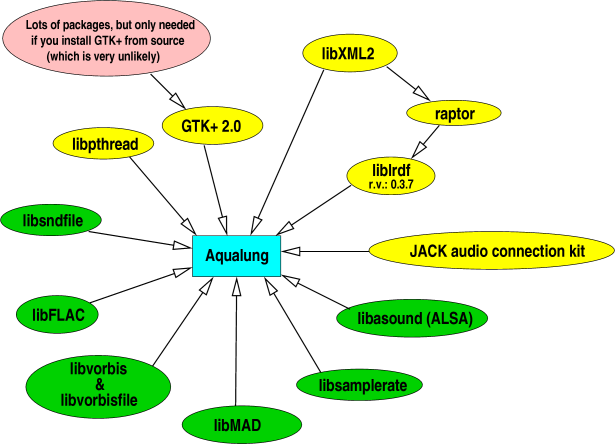
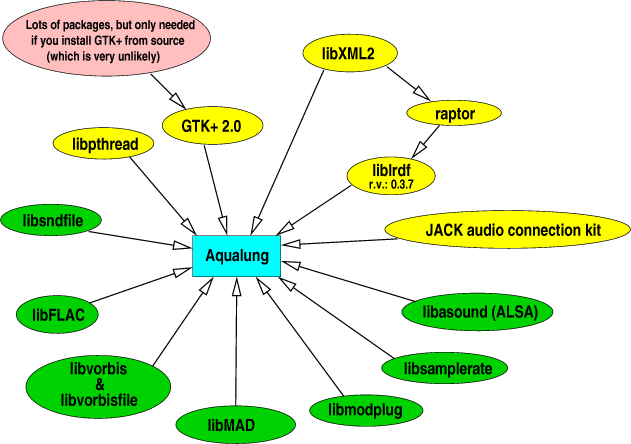
Aqualung 0.9beta2 released. See the ChangeLog.
git-svn-id: https://aqualung.svn.sourceforge.net/svnroot/aqualung/trunk@8 3cd24cdc-1f22-0410-b8b1-dcf80e670293

diff --git a/doc/html/compiling.html b/doc/html/compiling.html
@@ -104,6 +104,10 @@ stuff, with a few specialized points.
 <td>Library to decode MPEG Audio files (MP3 and friends)</td>
 <td><a href="http://www.underbit.com/products/mad">http://www.underbit.com/products/mad</a></td></tr>
 
+<tr><td>libmodplug</td>
+<td>Library to decode MOD files (MOD, S3M, XM, IT, etc.)</td>
+<td><a href="http://modplug-xmms.sourceforge.net">http://modplug-xmms.sourceforge.net</a></td></tr>
+
 <tr><td>libsamplerate</td>
 <td>Library for high quality Sample Rate Conversion</td>
 <td><a href="http://www.mega-nerd.com/SRC">http://www.mega-nerd.com/SRC</a></td></tr>
@@ -136,6 +140,9 @@ options, type <code>./configure --help</code>.
 
 <tr><td>support for MPEG Audio formats (libMAD)</td>
 <td><code>--without-mpeg</code></td></tr>
+
+<tr><td>support for MOD audio files (libmodplug)</td>
+<td><code>--without-mod</code></td></tr>
 
 <tr><td>support for OSS output</td>
 <td><code>--without-oss</code></td></tr>

diff --git a/doc/html/index.html b/doc/html/index.html
@@ -115,9 +115,15 @@ homepage.</li>
 <li><a href="http://www.xiph.org/ogg/vorbis">Ogg Vorbis</a> audio
 files are supported.</li>
 
-<li>MPEG Audio files are suppored. This includes MPEG 1-2-2.5, Layer
-I-II-III encoded audio, including the infamous MPEG-1 Layer III
-format also known as MP3.</li>
+<li>MPEG Audio files are supported. This includes MPEG 1-2-2.5, Layer
+I-II-III encoded audio, including the infamous MPEG-1 Layer III format
+also known as MP3. libMAD (which Aqualung uses) provides noticeably
+higher quality output than mpg123 (which XMMS relies upon).</li>
+
+<li>MOD audio files (MOD, S3M, XM, IT, etc.) are supported via the
+libmodplug library. This provides higher quality than MikMod (used by
+XMMS as the default MOD decoder) and <i>much</i> higher quality than
+Winamp.</li>
 
 <li>Naturally, any of these files can be mono or stereo.</li>
 

diff --git a/doc/html/download.html b/doc/html/download.html
@@ -40,6 +40,11 @@ page</a>.
 </p>
 
 <p>
+The latest release tarball version is 0.9beta2. You can read the <a
+href="ChangeLog">ChangeLog</a> to decide whether you want to upgrade.
+</p>
+
+<p>
 You can also make use of the anonymous CVS access provided by
 SourceForge.net. To do this, follow these steps (<code>%</code> is
 meant to be your prompt):

diff --git a/doc/html/misc.html b/doc/html/misc.html
@@ -107,6 +107,7 @@ sound</li>
 <li>libvorbis & libvorbisfile, for decoding Ogg Vorbis audio</li>
 <li>libFLAC, the Free Lossless Audio Codec library</li>
 <li>libMAD, a GPL'ed MPEG Audio Decoder library</li>
+<li>libmodplug, a MOD decoder library in the public domain</li>
 </ul>
 
 

diff --git a/src/core.c b/src/core.c
@@ -70,6 +70,13 @@
 #include <sys/mman.h>
 #endif /* HAVE_MPEG */
 
+/* for MOD Audio support */
+#ifdef HAVE_MOD
+#include <libmodplug/modplug.h>
+#include <sys/stat.h>
+#include <sys/mman.h>
+#endif /* HAVE_MOD */
+
 #include "common.h"
 #include "gui_main.h"
 #include "plugin.h"
@@ -106,6 +113,7 @@ unsigned long long disk_thread_samples_left;
 unsigned long long disk_thread_sample_offset;
 status_t disk_thread_status;
 int output = 0; /* oss/alsa/jack */
+
 #ifdef HAVE_SRC
 int src_type = 4;
 int src_type_parsed = 0;
@@ -159,6 +167,17 @@ struct mad_stream mpeg_stream;
 struct mad_frame mpeg_frame;
 struct mad_synth mpeg_synth;
 #endif /* HAVE_MPEG */
+
+/* for MOD Audio decoding (private to disk thread) */
+#ifdef HAVE_MOD
+jack_ringbuffer_t * rb_mod;
+ModPlug_Settings mp_settings;
+ModPlugFile * mpf;
+int mod_fd;
+void * mod_fdm;
+struct stat mod_st;
+int mod_EOS;
+#endif /* HAVE_MOD */
 
 
 /* Synchronization between process thread and disk thread */
@@ -469,6 +488,28 @@ decode_mpeg() {
 #endif /* HAVE_MPEG */
 
 
+#ifdef HAVE_MOD
+/* MOD decoder: return 1 if reached end of stream, 0 else */
+int
+decode_mod(void) {
+
+        float fbuffer[MOD_BUFSIZE / 2];
+        char buffer[MOD_BUFSIZE];
+        long bytes_read;
+        int i;
+
+        if ((bytes_read = ModPlug_Read(mpf, buffer, MOD_BUFSIZE)) > 0) {
+                for (i = 0; i < bytes_read/2; i++)
+                        fbuffer[i] = *((short *)(buffer + 2*i)) / 32768.f;
+                jack_ringbuffer_write(rb_mod, (char *)fbuffer, bytes_read/2 * sample_size);
+                return 0;
+        } else
+                return 1;
+}
+#endif /* HAVE_MOD */
+
+
+
 int close_file(void * arg);
 
 /* return: =0 on OK, >0 on error */
@@ -722,6 +763,79 @@ open_file(void * arg, char * filename) {
 	}
 #endif /* HAVE_MPEG */
 
+#ifdef HAVE_MOD
+	/* try opening with libmodplug */
+	if (!file_lib) {
+
+		if ((mod_fd = open(filename, O_RDONLY)) == -1) {
+			fprintf(stderr, "open_file: nonexistent or non-accessible file: %s\n", filename);
+			goto no_open;
+		}
+
+		if (fstat(mod_fd, &mod_st) == -1 || mod_st.st_size == 0) {
+			fprintf(stderr, "open_file: fstat error or zero-length file: %s\n", filename);
+			close(mod_fd);
+			goto no_open;
+		}
+
+		mod_fdm = mmap(0, mod_st.st_size, PROT_READ, MAP_SHARED, mod_fd, 0);
+		if (mod_fdm == MAP_FAILED) {
+			fprintf(stderr, "open_file: mmap() failed for MOD file %s\n", filename);
+			close(mod_fd);
+			goto no_open;
+		}
+
+		/* set libmodplug decoder parameters */
+		mp_settings.mFlags = MODPLUG_ENABLE_OVERSAMPLING | MODPLUG_ENABLE_NOISE_REDUCTION;
+		mp_settings.mChannels = 2;
+		mp_settings.mBits = 16;
+		mp_settings.mFrequency = 44100;
+		mp_settings.mResamplingMode = MODPLUG_RESAMPLE_FIR;
+		mp_settings.mReverbDepth = 100;
+		mp_settings.mReverbDelay = 100;
+		mp_settings.mBassAmount = 100;
+		mp_settings.mBassRange = 100;
+		mp_settings.mSurroundDepth = 100;
+		mp_settings.mSurroundDelay = 40;
+		mp_settings.mLoopCount = 0;
+
+		ModPlug_SetSettings(&mp_settings);
+		if ((mpf = ModPlug_Load(mod_fdm, mod_st.st_size)) != NULL) {
+
+			if (mod_st.st_size * 8000.0f / ModPlug_GetLength(mpf) >= 1000000.0f) {
+				fprintf(stderr,
+					"MOD bitrate greater than 1 Mbit/s, "
+					"very likely not a MOD file: %s\n", filename);
+
+				ModPlug_Unload(mpf);
+				if (munmap(mod_fdm, mod_st.st_size) == -1)
+					fprintf(stderr, "Error while munmap()'ing MOD Audio file mapping\n");
+				close(mod_fd);
+			} else {
+				
+				mod_EOS = 0;
+				rb_mod = jack_ringbuffer_create(mp_settings.mChannels * sample_size
+								* RB_MOD_SIZE);
+				channels = mp_settings.mChannels;
+				SR = mp_settings.mFrequency;
+				file_lib = MOD_LIB;
+				
+				fileinfo.total_samples = ModPlug_GetLength(mpf) / 1000.0f *
+					mp_settings.mFrequency;
+				fileinfo.format_major = FORMAT_MOD;
+				fileinfo.format_minor = 0;
+				fileinfo.bps = mod_st.st_size * 8000.0f / ModPlug_GetLength(mpf);
+
+			}
+		} else {
+                        if (munmap(mod_fdm, mod_st.st_size) == -1)
+                                fprintf(stderr, "Error while munmap()'ing MOD Audio file mapping\n");
+			close(mod_fd);
+		}
+
+	}
+#endif /* HAVE_MOD */
+
 
 	if (!file_lib) {
 	        goto no_open;
@@ -844,6 +958,17 @@ close_file(void * arg) {
 			break;
 #endif /* HAVE_MPEG */
 
+#ifdef HAVE_MOD
+		case MOD_LIB:
+			ModPlug_Unload(mpf);
+                        if (munmap(mod_fdm, mod_st.st_size) == -1)
+                                fprintf(stderr, "Error while munmap()'ing MOD Audio file mapping\n");
+                        close(mod_fd);
+                        jack_ringbuffer_free(rb_mod);
+                        file_lib = 0;
+			break;
+#endif /* HAVE_MOD */
+
 		default:
 			fprintf(stderr,
 				"close_file: programmer error: unexpected value file_lib=%d\n", file_lib);
@@ -925,6 +1050,21 @@ unsigned int read_file(void * arg, float * dest, int num) {
 		break;
 #endif /* HAVE_MPEG */
 
+#ifdef HAVE_MOD
+        case MOD_LIB:
+                while ((jack_ringbuffer_read_space(rb_mod) < num * mp_settings.mChannels * sample_size) &&
+                       (!mod_EOS)) {
+                        mod_EOS = decode_mod();
+                }
+
+                n_avail = jack_ringbuffer_read_space(rb_mod) / (mp_settings.mChannels * sample_size);
+                if (n_avail > num)
+                        n_avail = num;
+                jack_ringbuffer_read(rb_mod, (char *)dest, n_avail * mp_settings.mChannels * sample_size);
+                numread = n_avail;
+                break;
+#endif /* HAVE_MOD */
+
 	default:
 		fprintf(stderr, "read_file: programmer error: unexpected file_lib=%d value\n", file_lib);
 		break;
@@ -998,6 +1138,16 @@ seek_file(void * arg, unsigned long long seek_to_pos) {
 			jack_ringbuffer_read(rb_mpeg, &flush_dest, sizeof(char));
 		break;
 #endif /* HAVE_MPEG */
+
+#ifdef HAVE_MOD
+	case MOD_LIB:
+		ModPlug_Seek(mpf, (double)seek_to_pos / mp_settings.mFrequency * 1000.0f);
+		disk_thread_samples_left = fileinfo.total_samples - seek_to_pos;
+                /* empty mod decoder ringbuffer */
+                while (jack_ringbuffer_read_space(rb_mod))
+                        jack_ringbuffer_read(rb_mod, &flush_dest, sizeof(char));
+		break;
+#endif /* HAVE_MOD */
 
         default:
                 fprintf(stderr, "seek_file: programmer error: unexpected file_lib=%d value\n", file_lib);
@@ -2245,6 +2395,13 @@ main(int argc, char ** argv) {
 #else
 		fprintf(stderr, "no\n");
 #endif /* HAVE_MPEG */
+
+                fprintf(stderr, "\t\tMOD Audio (MOD, S3M, XM, IT, etc.)  : ");
+#ifdef HAVE_MOD
+                fprintf(stderr, "yes\n");
+#else
+                fprintf(stderr, "no\n");
+#endif /* HAVE_MOD */
 
 		fprintf(stderr, "\n\tOutput driver support:\n");
 

diff --git a/src/gui_main.c b/src/gui_main.c
@@ -70,6 +70,7 @@ extern jack_ringbuffer_t * rb_disk2gui;
 
 extern pthread_mutex_t output_thread_lock;
 
+extern char * client_name;
 extern int jack_is_shutdown;
 extern const size_t sample_size;
 
@@ -330,6 +331,12 @@ set_format_label(int v_major, int v_minor) {
 		strcpy(str, "MPEG Audio");
 		break;
 #endif /* HAVE_MPEG */
+
+#ifdef HAVE_MOD
+        case FORMAT_MOD:
+                strcpy(str, "MOD Audio");
+                break;
+#endif /* HAVE_MOD */
 
 	default:
 		strcpy(str, "Unrecognized");
@@ -1726,11 +1733,18 @@ create_main_window(char * skin_path) {
 	GtkWidget * sr_table;
 
 	char path[MAXLEN];
+	char title[MAXLEN];
 
+	strcpy(title, "Aqualung");
+	if ((output == JACK_DRIVER) && (strcmp(client_name, "aqualung") != 0)) {
+		strcat(title, " [");
+		strcat(title, client_name);
+		strcat(title, "]");
+	}
 
 	main_window = gtk_window_new(GTK_WINDOW_TOPLEVEL);
 	gtk_widget_set_name(main_window, "main_window");
-	gtk_window_set_title(GTK_WINDOW(main_window), "Aqualung");
+	gtk_window_set_title(GTK_WINDOW(main_window), title);
 	gtk_window_set_gravity(GTK_WINDOW(main_window), GDK_GRAVITY_STATIC);
         g_signal_connect(G_OBJECT(main_window), "delete_event", G_CALLBACK(main_window_close), NULL);
         g_signal_connect(G_OBJECT(main_window), "key_press_event", G_CALLBACK(main_window_key_pressed), NULL);

diff --git a/src/about.c b/src/about.c
@@ -184,6 +184,13 @@ create_about_window() {
 	gtk_text_buffer_insert_at_cursor(buffer, "no\n", -1);
 #endif /* HAVE_MPEG */
 	
+        gtk_text_buffer_insert_at_cursor(buffer, "\t\tMOD Audio (MOD, S3M, XM, IT, etc.)\t\t: ", -1);
+#ifdef HAVE_MOD
+        gtk_text_buffer_insert_at_cursor(buffer, "yes\n", -1);
+#else
+        gtk_text_buffer_insert_at_cursor(buffer, "no\n", -1);
+#endif /* HAVE_MOD */
+
 	gtk_text_buffer_insert_at_cursor(buffer, "\n\tOutput driver support:\n", -1);
 	
 	gtk_text_buffer_insert_at_cursor(buffer, "\t\tOSS Audio\t\t\t\t\t: ", -1);
@@ -222,7 +229,8 @@ create_about_window() {
 			 "* libsndfile, a library for accessing audio files containing sampled sound\n"
 			 "* libvorbis & libvorbisfile, for decoding Ogg Vorbis audio\n"
 			 "* libFLAC, the Free Lossless Audio Codec library\n"
-			 "* libMAD, a GPL'ed MPEG Audio Decoder library\n\n", -1);
+			 "* libMAD, a GPL'ed MPEG Audio Decoder library\n"
+			 "* libmodplug, a MOD decoder library in the public domain\n\n", -1);
 
 
 	gtk_text_buffer_insert_at_cursor(buffer,

diff --git a/src/core.h b/src/core.h
@@ -45,6 +45,10 @@
 #define MAD_LIB     4
 #endif /* HAVE_MPEG */
 
+#ifdef HAVE_MOD
+#define MOD_LIB     5
+#endif /* HAVE_MOD */
+
 /* output drivers */
 #ifdef HAVE_OSS
 #define OSS_DRIVER  1
@@ -86,6 +90,13 @@
 /* size of ringbuffer for decoded MPEG Audio data (in frames) */
 #define RB_MAD_SIZE 262144
 #endif /* HAVE_MPEG */
+
+#ifdef HAVE_MOD
+/* Decoding buffer size for libmodplug */
+#define MOD_BUFSIZE 8192
+/* size of ringbuffer for decoded MOD Audio data (in frames) */
+#define RB_MOD_SIZE 262144
+#endif /* HAVE_MOD */
 
 
 /* SRC settings */
@@ -172,6 +183,9 @@ typedef struct _thread_info {
 #define MPEG_EMPH_MASK   0xF00
 #endif /* HAVE_MPEG */
 
+#ifdef HAVE_MOD
+#define FORMAT_MOD   0x8000000
+#endif /* HAVE_MOD */
 
 
 typedef struct _fileinfo {
